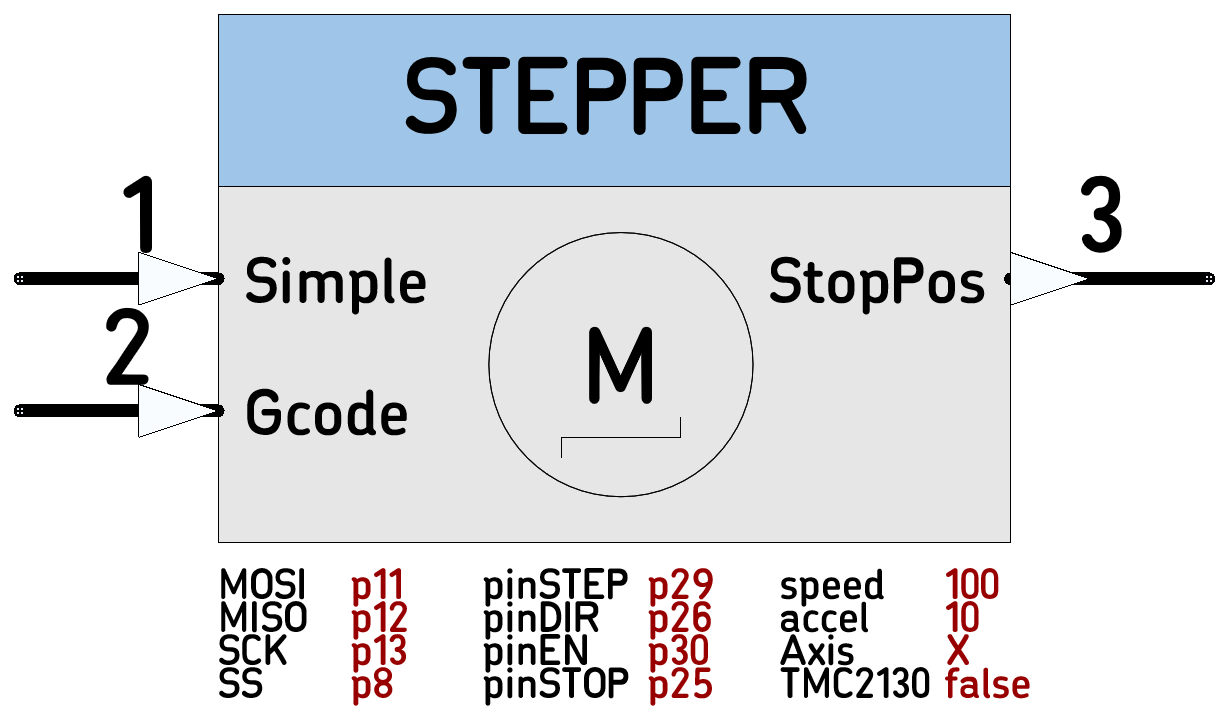
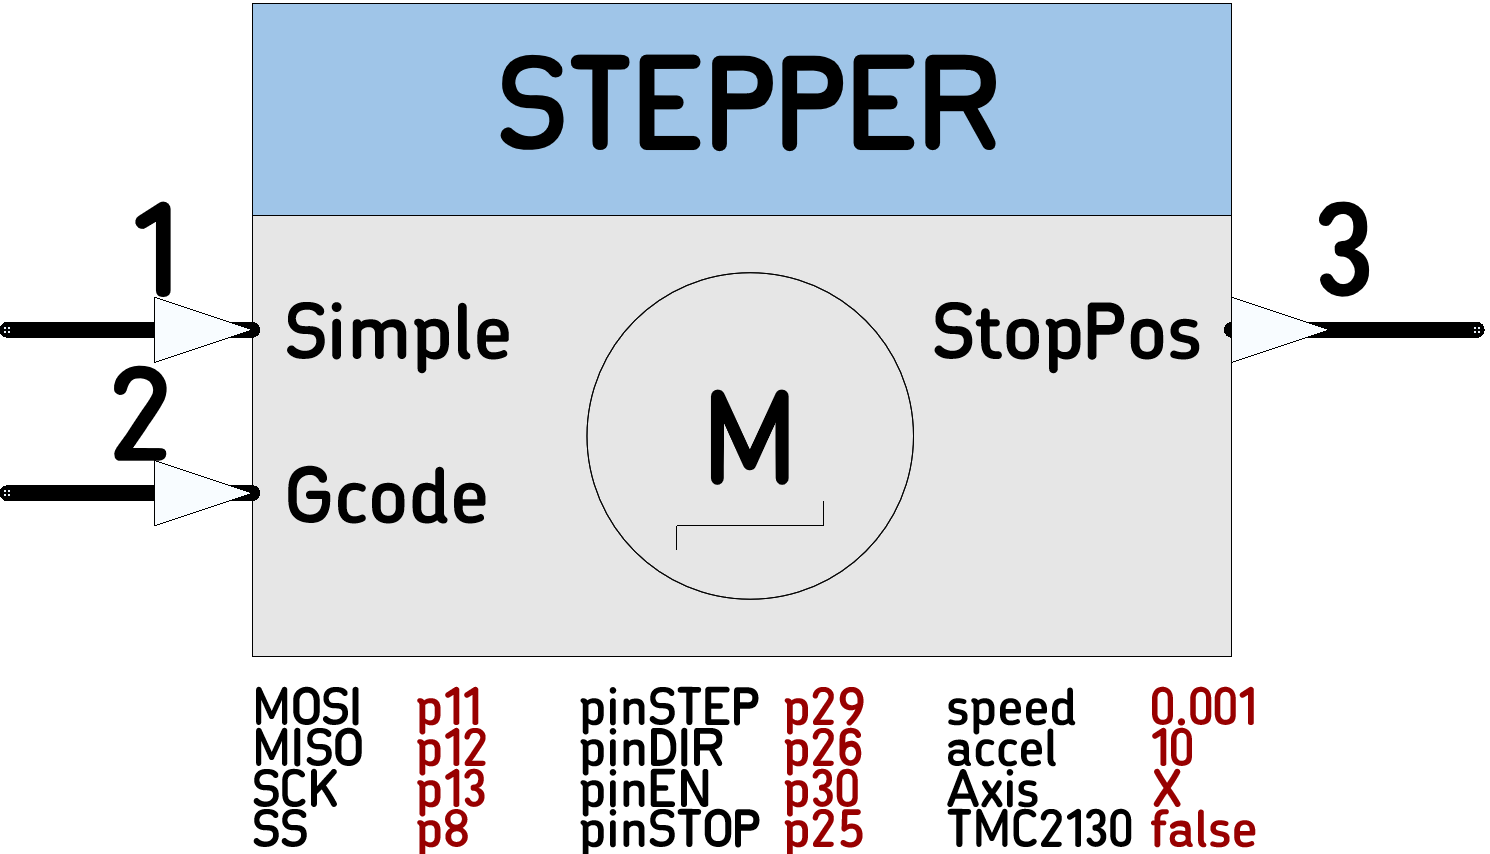
_motion variable for motion statusd,speed is now float and has limiting values, step pulse reduced from 5.5us to 600ns, Axis accepts 1,2,3,4,5,6,7,8 instead A,B,C,...

diff --git a/STEPPER.cpp b/STEPPER.cpp
@@ -2,11 +2,13 @@
 
 nBlock_STEPPER::nBlock_STEPPER(PinName MOSI, PinName MISO, PinName SCK, PinName pinSS, 
                                PinName pinSTEP, PinName pinDIR, PinName pinEN, PinName pinSTOP,
-                               uint32_t speed, uint32_t accel, uint8_t axis, bool TMC2130): 
+                               float speed, uint32_t accel, uint8_t axis, bool TMC2130): 
                                _step(pinSTEP), _dir(pinDIR), _en(pinEN), _stop(pinSTOP),         // instantiation so can use _en =1;
                                _speed(speed), _accel(accel), _axis(axis), _tmc2130 (TMC2130) {   
     
-    (this->_motion_ticker).attach(callback(this, &nBlock_STEPPER::_motion_tmrISR), 0.001*_speed); // Instantiate the _motion_timer
+    if(_speed < 0.00002) _speed = 0.00002;    // max 50KHz for Step pin frequency
+    if(_speed > 1.1) _speed = 1.0;            // min 1Hz
+    (this->_motion_ticker).attach(callback(this, &nBlock_STEPPER::_motion_tmrISR), _speed); // Instantiate the _motion_timer
 
     if (TMC2130) {                      // Have to check TMC2130 first, so need to use the 'new operator'....
         _spi = new SPI(MOSI, MISO, SCK);   // ... since we can't instantiate _spi and _ss before the { , like the rest of the functions.
@@ -131,14 +133,14 @@ void nBlock_STEPPER::stop(void) {
 void nBlock_STEPPER::turnLeft(void) {
     _en  = 1;
     _dir = 0;
-    SteppingCounter = 10000;
+    SteppingCounter = 1000000;  // 1000000/50KHz = 20sec of movement if the fastest speed is used
     _motion = MOTIONACTIVE;     
 }
  
 void nBlock_STEPPER::turnRight(void) {
     _en  = 1;
     _dir = 1;
-    SteppingCounter = 10000;
+    SteppingCounter = 1000000; // 1000000/50KHz = 20sec of movement if the fastest speed is used
     _motion = MOTIONACTIVE;
 
 }
@@ -158,8 +160,13 @@ void nBlock_STEPPER::stopISR() {
 
 void nBlock_STEPPER::_motion_tmrISR() {
     if(_motion == MOTIONACTIVE){
-		_step = 1;
-        wait_us(3);
+		_step = 1;      // 100ns pulse for a single command
+        _step = 1;      // 
+        _step = 1;      // 250ns pulse with 3 x commands
+        _step = 1;      // 
+        _step = 1;      // 
+        _step = 1;      // 600ns pulse with 6x commands, but compiler optimization might affect this
+        //wait_us(1);   // 7.5us pulse with wait_us(1)
         _step = 0;
         SteppingCounter--;
         if(SteppingCounter == 0) {

diff --git a/STEPPER.h b/STEPPER.h
@@ -36,7 +36,7 @@ class nBlock_STEPPER: public nBlockSimpleNode<1> {
 public:
     nBlock_STEPPER(PinName MOSI, PinName MISO, PinName SCK, PinName pinSS, 
                                PinName pinSTEP, PinName pinDIR, PinName pinEN, PinName pinSTOP,
-                               uint32_t speed, uint32_t accel, uint8_t axis, bool TMC2130);
+                               float speed, uint32_t accel, uint8_t axis, bool TMC2130);
     void        triggerInput(nBlocks_Message message);
 	void        endFrame();
 
@@ -69,7 +69,7 @@ private:
     DigitalOut  _en;
     DigitalOut  _stop;
 
-	uint32_t    _speed;
+	float    _speed;
     uint32_t    _accel;
     uint32_t    _axis;
     bool        _tmc2130;

diff --git a/README.md b/README.md
@@ -70,25 +70,27 @@ Registers are accesed with 40bit SPI transactions, sending a 40 bit command and 
 ## Node Parameters ##
 
 ```
- *  PinName:  pinMOSI 
- *  PinName:  pinMISO 
- *  PinName:  pinSCK
- *  PinName:  pinSS
- *  PinName:  pinSTEP
- *  PinName:  pinDIR
- *  PinName:  pinEN
- *  PinName:  pinStop: Connect to a microswitch-end-Stop or TMC2130 DIAG1 pin
- *  uint32_t: speed: The Default speed in ms/step (1--> 1KHz stepping freq)
- *  uint32_t: Accel: The Default acceration
- *  char8_t:  Axis: Node executes Gcode, [only for a single axis]: X,Y,Z,E,A,B,C, or D
- *  bool:     TMC2130
+ *  PinName: pinMOSI 
+ *  PinName: pinMISO 
+ *  PinName: pinSCK
+ *  PinName: pinSS
+ *  PinName: pinSTEP
+ *  PinName: pinDIR
+ *  PinName: pinEN
+ *  PinName: pinStop: Connect to a microswitch-end-Stop or TMC2130 DIAG1 pin
+ *  float:   speed: Default speed in s/step (0.001-->1KHz) limited to min 0.00002(50KHz), max 1 (1Hz)
+ *  uint32_t:Accel: The Default acceration
+ *  char8_t: Axis: Executes Gcode only for the specified axis: 1=X,2=Y,3=Z,4=E,5=A,6=B,7=C,8=D
+ *  bool:    TMC2130
 ```
 
 
 ## Usage Example ##
 
 ```
-[Ticker]-->[Counter]-->(1)[SilentSTEPPER]
+[Ticker]-->[Counter]-->(1)[SilentSTEPPER] simple motion demo
+
+[PC_Serial "G0 X100"]-->[StringSerial]-->(2)[SilentSTEPPER] executes Gcode
 
 ```
 
